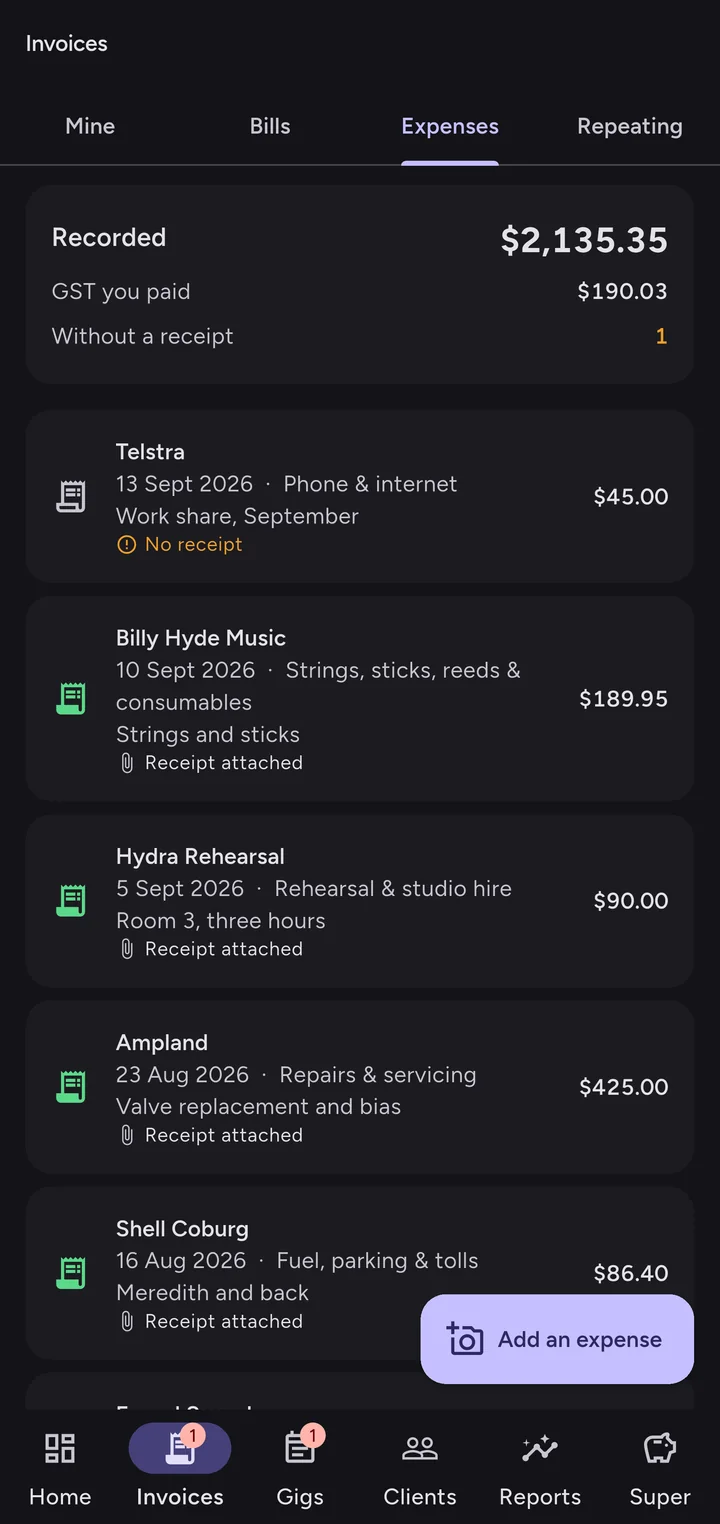
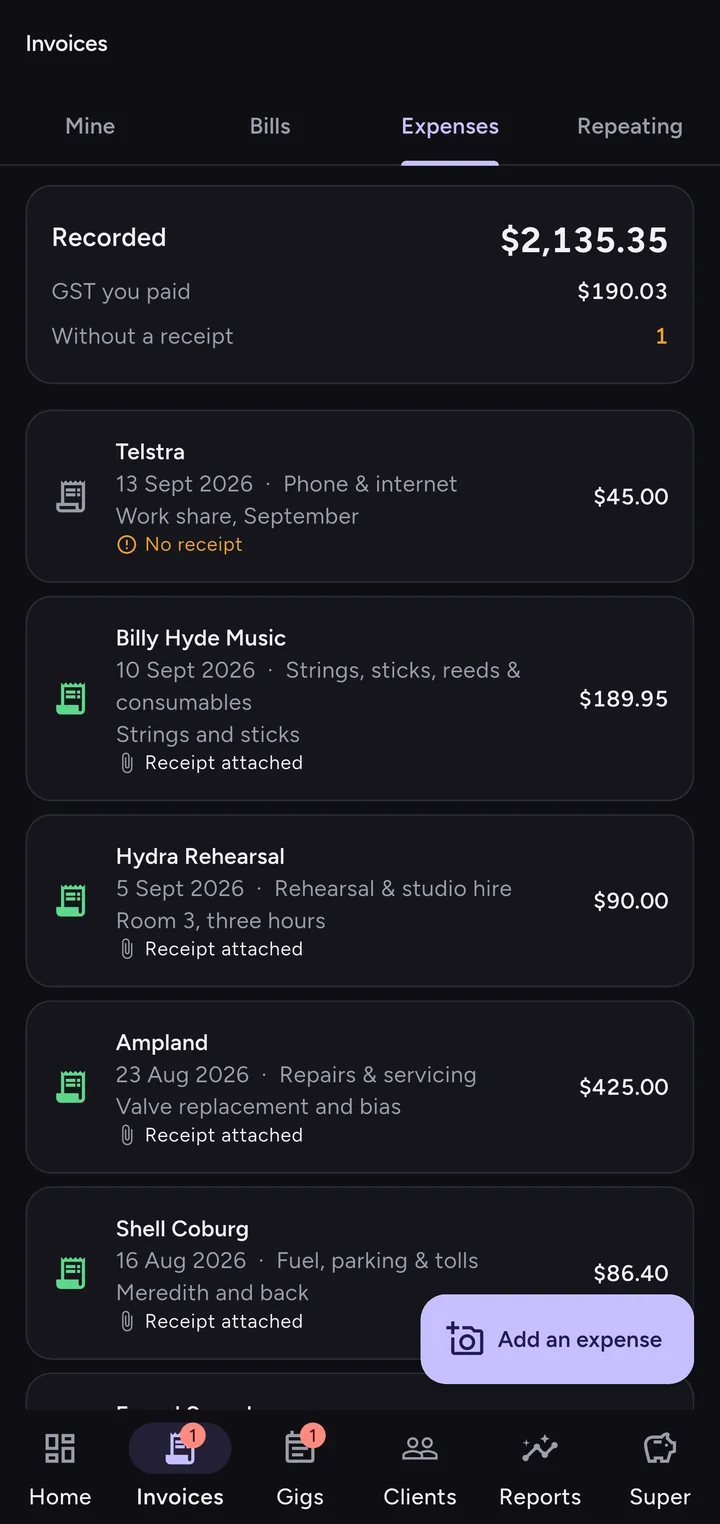
Screenshots on the app's new palette
Every frame recaptured from the build that is now on Play. The app moved
off the violet-tinted surfaces it had inherited from a seeded Material
scheme, so the old set showed a colour scheme nobody has any more.

diff --git a/index.html b/index.html
@@ -579,7 +579,7 @@
         <div class="bezel">
           <picture>
             <source srcset="assets/screen-split.webp" type="image/webp">
-            <img src="assets/screen-split.png" width="720" height="1523"
+            <img src="assets/screen-split.png" width="720" height="1524"
                  alt="The fee split screen dividing a $1,200 fee four ways between band members.">
           </picture>
         </div>
